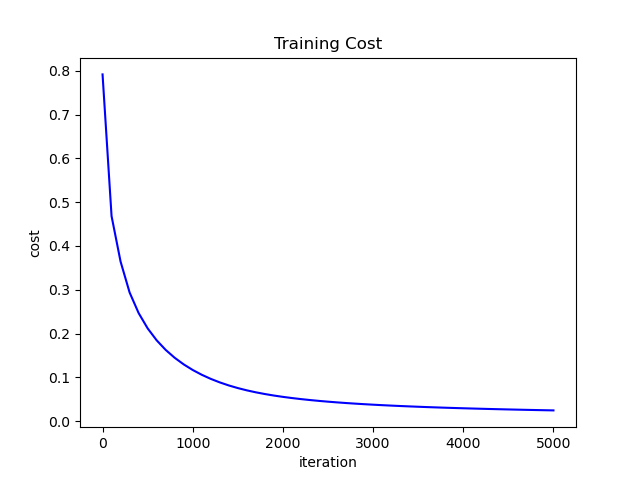
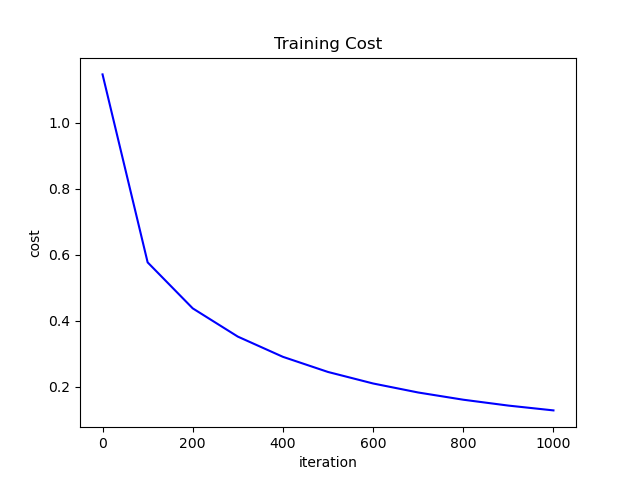
tests ex 15

diff --git a/supervised_learning/classification/test9.py b/supervised_learning/classification/test9.py
@@ -1,0 +1,21 @@
+#!/usr/bin/env python3
+
+import matplotlib.pyplot as plt
+import numpy as np
+
+NN = __import__('15-neural_network').NeuralNetwork
+
+lib_train = np.load('../data/Binary_Train.npz')
+X_train_3D, Y_train = lib_train['X'], lib_train['Y']
+X_train = X_train_3D.reshape((X_train_3D.shape[0], -1)).T
+
+np.random.seed(1)
+nn = NN(X_train.shape[0], 3)
+try:
+    nn.train(X_train, Y_train, iterations=100, graph=False, step=105)
+except ValueError as e:
+    print(e)
+try:
+    nn.train(X_train, Y_train, graph=False, step=0)
+except ValueError as e:
+    print(e)

diff --git a/supervised_learning/classification/test8.py b/supervised_learning/classification/test8.py
@@ -1,0 +1,17 @@
+#!/usr/bin/env python3
+
+import matplotlib.pyplot as plt
+import numpy as np
+
+NN = __import__('15-neural_network').NeuralNetwork
+
+lib_train = np.load('../data/Binary_Train.npz')
+X_train_3D, Y_train = lib_train['X'], lib_train['Y']
+X_train = X_train_3D.reshape((X_train_3D.shape[0], -1)).T
+
+np.random.seed(1)
+nn = NN(X_train.shape[0], 3)
+try:
+    nn.train(X_train, Y_train, graph=False, step='10')
+except TypeError as e:
+    print(e)

diff --git a/supervised_learning/classification/test5.py b/supervised_learning/classification/test5.py
@@ -1,0 +1,14 @@
+#!/usr/bin/env python3
+
+import matplotlib.pyplot as plt
+import numpy as np
+
+NN = __import__('15-neural_network').NeuralNetwork
+
+lib_train = np.load('../data/Binary_Train.npz')
+X_train_3D, Y_train = lib_train['X'], lib_train['Y']
+X_train = X_train_3D.reshape((X_train_3D.shape[0], -1)).T
+
+np.random.seed(1)
+nn = NN(X_train.shape[0], 3)
+print(nn.train(X_train, Y_train, iterations=100, verbose=False, graph=False))

diff --git a/supervised_learning/classification/test6.py b/supervised_learning/classification/test6.py
@@ -1,0 +1,14 @@
+#!/usr/bin/env python3
+
+import matplotlib.pyplot as plt
+import numpy as np
+
+NN = __import__('15-neural_network').NeuralNetwork
+
+lib_train = np.load('../data/Binary_Train.npz')
+X_train_3D, Y_train = lib_train['X'], lib_train['Y']
+X_train = X_train_3D.reshape((X_train_3D.shape[0], -1)).T
+
+np.random.seed(1)
+nn = NN(X_train.shape[0], 3)
+nn.train(X_train, Y_train, iterations=1000)

diff --git a/supervised_learning/classification/test7.py b/supervised_learning/classification/test7.py
@@ -1,0 +1,14 @@
+#!/usr/bin/env python3
+
+import matplotlib.pyplot as plt
+import numpy as np
+
+NN = __import__('15-neural_network').NeuralNetwork
+
+lib_train = np.load('../data/Binary_Train.npz')
+X_train_3D, Y_train = lib_train['X'], lib_train['Y']
+X_train = X_train_3D.reshape((X_train_3D.shape[0], -1)).T
+
+np.random.seed(1)
+nn = NN(X_train.shape[0], 3)
+nn.train(X_train, Y_train, iterations=105, graph=False)